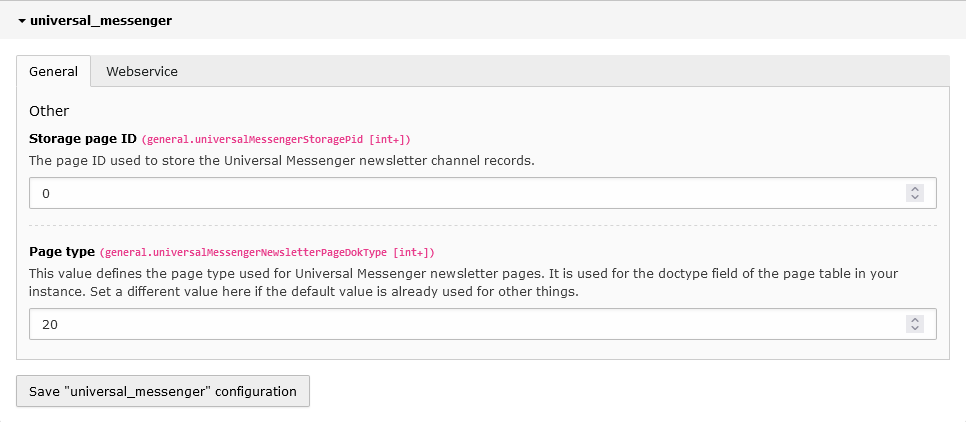
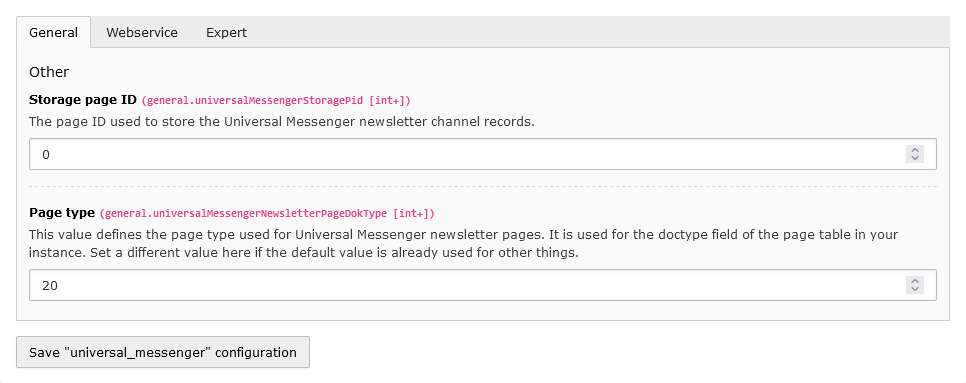
Make channel suffix configurable

diff --git a/Classes/Controller/AbstractBaseController.php b/Classes/Controller/AbstractBaseController.php
@@ -11,6 +11,7 @@ declare(strict_types=1);
 
 namespace Netresearch\UniversalMessenger\Controller;
 
+use Exception;
 use Netresearch\UniversalMessenger\Domain\Repository\NewsletterChannelRepository;
 use Netresearch\UniversalMessenger\Service\NewsletterRenderService;
 use Netresearch\UniversalMessenger\Service\UniversalMessengerService;
@@ -19,6 +20,7 @@ use TYPO3\CMS\Backend\Template\ModuleTemplate;
 use TYPO3\CMS\Backend\Template\ModuleTemplateFactory;
 use TYPO3\CMS\Backend\Utility\BackendUtility;
 use TYPO3\CMS\Core\Authentication\BackendUserAuthentication;
+use TYPO3\CMS\Core\Configuration\ExtensionConfiguration;
 use TYPO3\CMS\Core\Localization\LanguageService;
 use TYPO3\CMS\Core\Type\Bitmask\Permission;
 use TYPO3\CMS\Core\Type\ContextualFeedbackSeverity;
@@ -43,6 +45,11 @@ abstract class AbstractBaseController extends ActionController
      * @var ModuleTemplateFactory
      */
     private readonly ModuleTemplateFactory $moduleTemplateFactory;
+
+    /**
+     * @var ExtensionConfiguration
+     */
+    protected ExtensionConfiguration $extensionConfiguration;
 
     /**
      * @var ModuleTemplate
@@ -75,17 +82,20 @@ abstract class AbstractBaseController extends ActionController
      * AbstractBaseController constructor.
      *
      * @param ModuleTemplateFactory       $moduleTemplateFactory
+     * @param ExtensionConfiguration      $extensionConfiguration
      * @param UniversalMessengerService   $universalMessengerService
      * @param NewsletterChannelRepository $newsletterChannelRepository
      * @param NewsletterRenderService     $newsletterRenderService
      */
     public function __construct(
         ModuleTemplateFactory $moduleTemplateFactory,
+        ExtensionConfiguration $extensionConfiguration,
         UniversalMessengerService $universalMessengerService,
         NewsletterChannelRepository $newsletterChannelRepository,
         NewsletterRenderService $newsletterRenderService
     ) {
         $this->moduleTemplateFactory       = $moduleTemplateFactory;
+        $this->extensionConfiguration      = $extensionConfiguration;
         $this->universalMessengerService   = $universalMessengerService;
         $this->newsletterChannelRepository = $newsletterChannelRepository;
         $this->newsletterRenderService     = $newsletterRenderService;
@@ -187,7 +197,7 @@ abstract class AbstractBaseController extends ActionController
     /**
      * @return LanguageService
      */
-    private function getLanguageService(): LanguageService
+    protected function getLanguageService(): LanguageService
     {
         return $GLOBALS['LANG'];
     }
@@ -199,10 +209,26 @@ abstract class AbstractBaseController extends ActionController
      *
      * @return string
      */
-    private function translate(string $key): string
+    protected function translate(string $key): string
     {
         return $this->getLanguageService()->sL(
             'LLL:EXT:universal_messenger/Resources/Private/Language/locallang.xlf:' . $key
         );
+    }
+
+    /**
+     * Get the extension configuration.
+     *
+     * @param string $path Path to get the config for
+     *
+     * @return mixed
+     */
+    protected function getExtensionConfiguration(string $path): mixed
+    {
+        try {
+            return $this->extensionConfiguration->get('universal_messenger', $path);
+        } catch (Exception) {
+            return null;
+        }
     }
 }

diff --git a/Classes/Controller/UniversalMessengerController.php b/Classes/Controller/UniversalMessengerController.php
@@ -21,6 +21,7 @@ use Psr\Http\Message\ResponseInterface;
 use TYPO3\CMS\Backend\Routing\PreviewUriBuilder;
 use TYPO3\CMS\Backend\Template\ModuleTemplateFactory;
 use TYPO3\CMS\Backend\Utility\BackendUtility;
+use TYPO3\CMS\Core\Configuration\ExtensionConfiguration;
 use TYPO3\CMS\Core\Site\SiteFinder;
 use TYPO3\CMS\Core\Type\ContextualFeedbackSeverity;
 use TYPO3\CMS\Core\Utility\GeneralUtility;
@@ -48,6 +49,7 @@ class UniversalMessengerController extends AbstractBaseController
      * UniversalMessengerController constructor.
      *
      * @param ModuleTemplateFactory       $moduleTemplateFactory
+     * @param ExtensionConfiguration      $extensionConfiguration
      * @param UniversalMessengerService   $universalMessengerService
      * @param NewsletterChannelRepository $newsletterChannelRepository
      * @param NewsletterRenderService     $newsletterRenderService
@@ -55,6 +57,7 @@ class UniversalMessengerController extends AbstractBaseController
      */
     public function __construct(
         ModuleTemplateFactory $moduleTemplateFactory,
+        ExtensionConfiguration $extensionConfiguration,
         UniversalMessengerService $universalMessengerService,
         NewsletterChannelRepository $newsletterChannelRepository,
         NewsletterRenderService $newsletterRenderService,
@@ -62,6 +65,7 @@ class UniversalMessengerController extends AbstractBaseController
     ) {
         parent::__construct(
             $moduleTemplateFactory,
+            $extensionConfiguration,
             $universalMessengerService,
             $newsletterChannelRepository,
             $newsletterRenderService
@@ -133,9 +137,6 @@ class UniversalMessengerController extends AbstractBaseController
             return $this->forwardFlashMessage('error.invalidRequest');
         }
 
-        $testChannelSuffix = $this->settings['newsletter']['testChannelSuffix'];
-        $liveChannelSuffix = $this->settings['newsletter']['liveChannelSuffix'];
-
         $contentPage         = BackendUtility::getRecord('pages', $this->pageId);
         $site                = $this->siteFinder->getSiteByPageId($this->pageId);
         $newsletterType      = strtoupper($this->request->getArgument('send'));
@@ -143,9 +144,9 @@ class UniversalMessengerController extends AbstractBaseController
         $newsletterContent   = $this->newsletterRenderService->renderNewsletterPage($this->pageId);
 
         if ($newsletterType === self::NEWSLETTER_SEND_TYPE_TEST) {
-            $newsletterChannelId .= $testChannelSuffix;
+            $newsletterChannelId .= $this->getExtensionConfiguration('newsletter/testChannelSuffix') ?? '';
         } else {
-            $newsletterChannelId .= $liveChannelSuffix;
+            $newsletterChannelId .= $this->getExtensionConfiguration('newsletter/liveChannelSuffix') ?? '';
         }
 
         /** @var CreateRequestBuilder $createRequestBuilder */

diff --git a/Classes/Command/ImportCommand.php b/Classes/Command/ImportCommand.php
@@ -25,7 +25,6 @@ use Symfony\Component\Console\Input\InputInterface;
 use Symfony\Component\Console\Output\OutputInterface;
 use TYPO3\CMS\Core\Configuration\ExtensionConfiguration;
 use TYPO3\CMS\Core\Utility\GeneralUtility;
-use TYPO3\CMS\Extbase\Configuration\ConfigurationManagerInterface;
 use TYPO3\CMS\Extbase\Persistence\PersistenceManagerInterface;
 
 /**
@@ -233,13 +232,11 @@ class ImportCommand extends Command implements LoggerAwareInterface
      */
     private function stripChannelSuffix(string $channelId): string
     {
-        $settings = $this->getTypoScriptSettings();
-
         return trim(
             str_ireplace(
                 [
-                    $settings['newsletter']['testChannelSuffix'],
-                    $settings['newsletter']['liveChannelSuffix'],
+                    $this->getTestChannelSuffix(),
+                    $this->getLiveChannelSuffix(),
                 ],
                 '',
                 $channelId
@@ -310,23 +307,6 @@ class ImportCommand extends Command implements LoggerAwareInterface
     }
 
     /**
-     * Returns the typoscript settings.
-     *
-     * @return array<string, array<string, string[]>>
-     */
-    private function getTypoScriptSettings(): array
-    {
-        $pluginConfiguration = GeneralUtility::makeInstance(ConfigurationManagerInterface::class)
-            ->getConfiguration(
-                ConfigurationManagerInterface::CONFIGURATION_TYPE_FULL_TYPOSCRIPT
-            );
-
-        return GeneralUtility::removeDotsFromTS(
-            $pluginConfiguration['plugin.']['tx_universalmessenger.']['settings.']
-        );
-    }
-
-    /**
      * Returns the page ID used to store the records.
      *
      * @return int
@@ -334,5 +314,25 @@ class ImportCommand extends Command implements LoggerAwareInterface
     private function getStoragePageId(): int
     {
         return (int) ($this->getExtensionConfiguration('universalMessengerStoragePid') ?? 0);
+    }
+
+    /**
+     * Returns the TEST newsletter channel suffix.
+     *
+     * @return string
+     */
+    private function getTestChannelSuffix(): string
+    {
+        return $this->getExtensionConfiguration('newsletter/testChannelSuffix') ?? '';
+    }
+
+    /**
+     * Returns the LIVE newsletter channel suffix.
+     *
+     * @return string
+     */
+    private function getLiveChannelSuffix(): string
+    {
+        return $this->getExtensionConfiguration('newsletter/liveChannelSuffix') ?? '';
     }
 }

diff --git a/README.md b/README.md
@@ -16,24 +16,29 @@ The extension should be installed via composer:
 ## Setup
 ### Extension configuration
 
-| Field           | Tab        | Default value | Description                                                                                                                                                                                                                             |
-|:----------------|:-----------|:--------------|:----------------------------------------------------------------------------------------------------------------------------------------------------------------------------------------------------------------------------------------|
-| Storage page ID | General    | 0             | The page ID used to store the Universal Messenger newsletter channel records.                                                                                                                                                           |
-| Page type       | General    | 20            | This value defines the page type used for Universal Messenger newsletter pages. It is used for the doctype field of the page table in your instance. Set a different value here if the default value is already used for other things.  |
-| Base URL        | Webservice |               | The general Universal Messenger API URL, which is the basis of all requests, e.g. https://your-domain.td.universal-messenger.de/p                                                                                                       |
-| API key         | Webservice |               | The Universal Messenger API Key                                                                                                                                                                                                         |
-| Enable logging  | Webservice | 0             | Log all Universal Messenger API requests in a log file.                                                                                                                                                                                 |
+| Field                          | Tab        | Default value | Description                                                                                                                                                                                                                            |
+|:-------------------------------|:-----------|:--------------|:---------------------------------------------------------------------------------------------------------------------------------------------------------------------------------------------------------------------------------------|
+| Storage page ID                | General    | 0             | The page ID used to store the Universal Messenger newsletter channel records.                                                                                                                                                          |
+| Page type                      | General    | 20            | This value defines the page type used for Universal Messenger newsletter pages. It is used for the doctype field of the page table in your instance. Set a different value here if the default value is already used for other things. |
+| Base URL                       | Webservice |               | The general Universal Messenger API URL, which is the basis of all requests, e.g. https://your-domain.td.universal-messenger.de/p                                                                                                      |
+| API key                        | Webservice |               | The Universal Messenger API Key                                                                                                                                                                                                        |
+| Enable logging                 | Webservice | 0             | Log all Universal Messenger API requests in a log file.                                                                                                                                                                                |
+| Test newsletter channel suffix | Expert     | _Test         | Enter the suffix for the TEST newsletter channels here.                                                                                                                                                                                |
+| Live newsletter channel suffix | Expert     | _Live         | Enter the suffix for the LIVE newsletter channels here.                                                                                                                                                                                |
 
+#### General
 ![Extension Configuration Tab "General"](Documentation/ExtensionConfiguration1.png) 
 *Fig. 1: Extension Configuration Tab "General"*
 
 
+#### Webservice
 ![Extension Configuration Tab "Webservice"](Documentation/ExtensionConfiguration2.png)
 *Fig. 2: Extension Configuration Tab "Webservice"*
 
 
+##### API-Logging
 To enable the request/response logging of the Universal Messenger, enable the extension configuration "Enable logging"
-and add a logger to your `ext_localconf.php`:
+and add a log writer configuration to your `ext_localconf.php`:
 
 ```php
 // Add logger for universal messenger
@@ -45,6 +50,25 @@ $GLOBALS['TYPO3_CONF_VARS']['LOG']['Netresearch']['UniversalMessenger']['writerC
     ],
 ];
 ```
+
+#### Expert
+![Extension Configuration Tab "Expert"](Documentation/ExtensionConfiguration3.png)
+*Fig. 3: Extension Configuration Tab "Expert"*
+
+##### Test-/Live channels
+To enable test operation, a separate channel can be set up as a test channel for a newsletter in
+Universal Messenger and, for example, given a suffix.
+
+Test operation
+- Channel: Newsletter_TEST
+- Recipient: Defined recipient list for validating the newsletter before it is actually sent to customers.
+
+Live operation
+- Channel: Newsletter_LIVE
+- Recipient: Recipient list with customer addresses
+
+Using the setting "newsletter" => "testChannelSuffix" and "liveChannelSuffix", this suffix can be
+adapted to the setting in Universal Messenger.
 
 
 ### TypoScript
@@ -63,31 +87,6 @@ plugin.tx_universalmessenger {
 module.tx_universalmessenger < plugin.tx_universalmessenger
 ```
 
-To enable test operation, a separate channel can be set up as a test channel for a newsletter in
-Universal Messenger and, for example, given a suffix.
-
-Test operation
-- Channel: Newsletter_TEST
-- Recipient: Defined recipient list for validating the newsletter before it is actually sent to customers.
-
-Live operation
-- Channel: Newsletter_LIVE
-- Recipient: Recipient list with customer addresses
-
-Using the setting "newsletter" => "testChannelSuffix" and "liveChannelSuffix", this suffix can be 
-adapted to the setting in Universal Messenger:
-
-```typo3_typoscript
-plugin.tx_universalmessenger {
-    settings {
-        newsletter {
-            testChannelSuffix = _Test
-            liveChannelSuffix = _Live
-        }
-    }
-}
-```
-
 
 ### Scheduler-Task
 The extension provides a console command `universal-messenger:newsletter-channels:import` for importing the
@@ -97,7 +96,10 @@ newsletter channels into TYPO3 once a day, for example.
 
 ## Usage
 The newsletter channels are imported into TYPO3 as generic channels, i.e. the configured suffixes for the
-test or live channels are removed (the spelling is irrelevant, i.e. an upper and lower case is ignored).
+test or live channels are cut off (regardless of the spelling, i.e. an upper and lower case is ignored).
+
+A newsletter page is always assigned only the generic channel name, and the separation after a TEST or LIVE 
+dispatch only takes place in the dispatch module.
 
 Each newsletter channel can also be configured with additional settings (a new import does not overwrite these settings):
 
